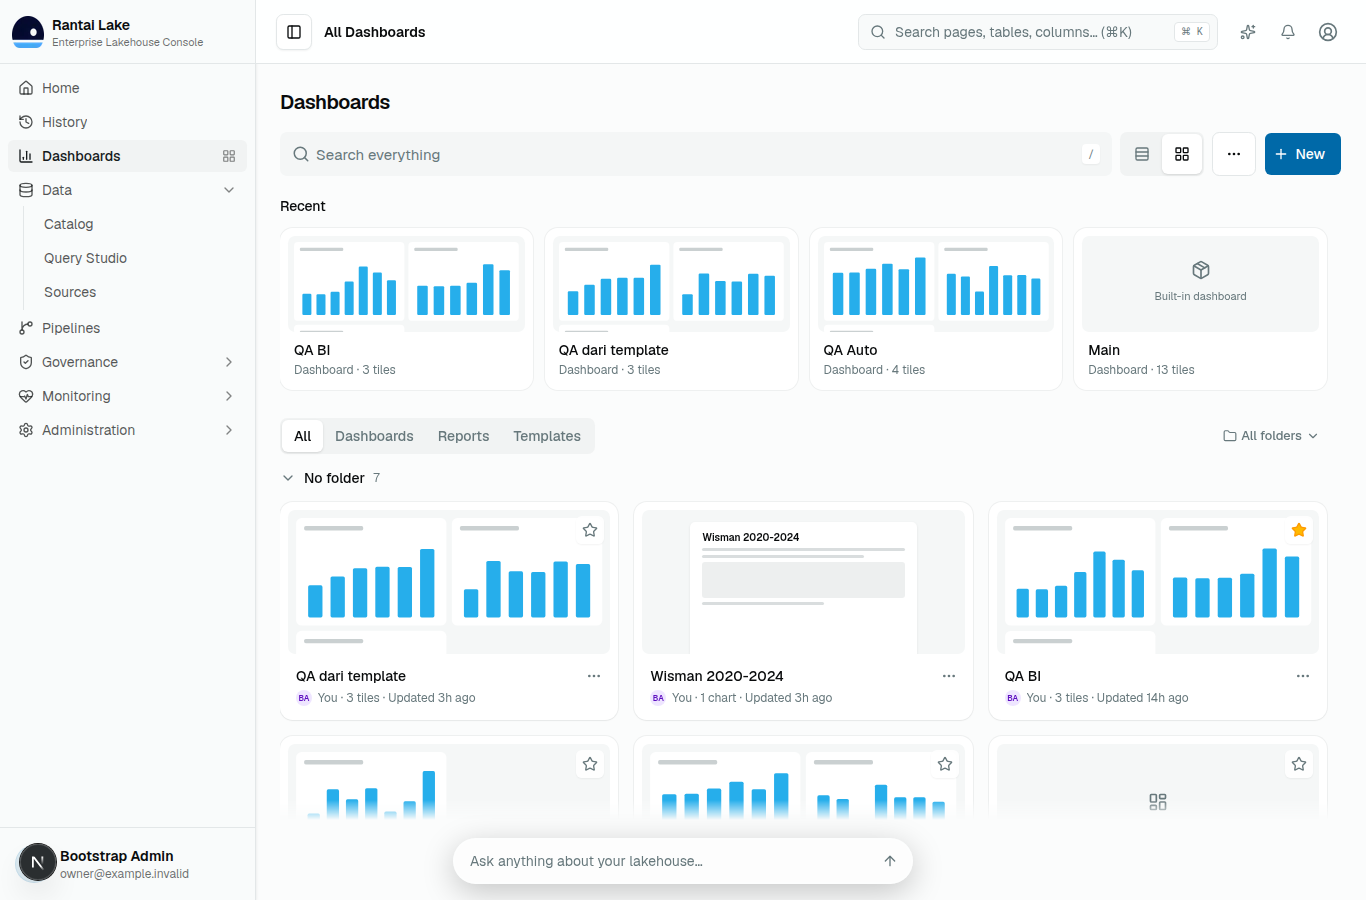
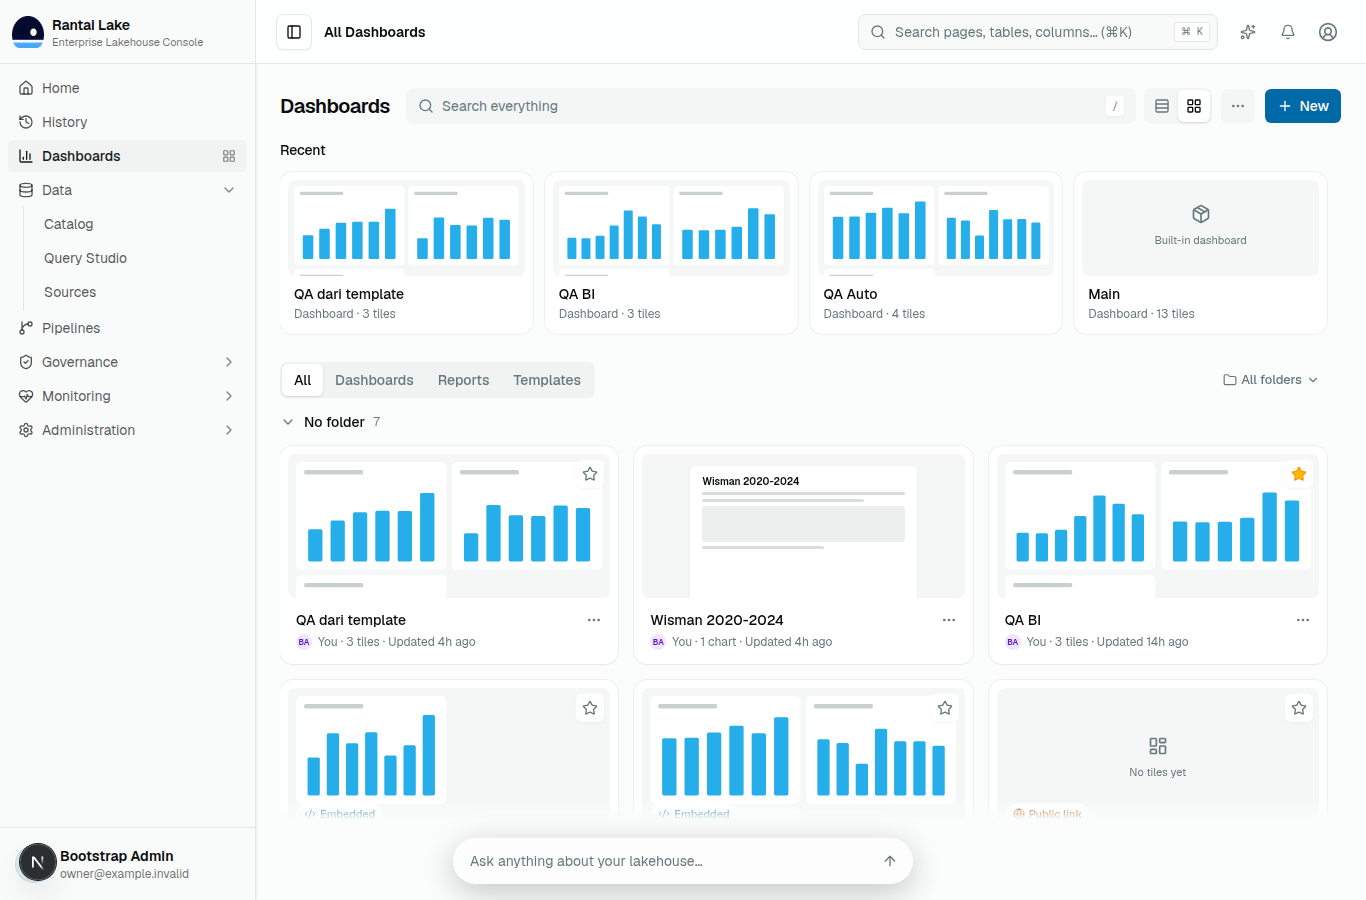
fix(dashboards): BI-59 review round 2: one compact header row, 36 px controls
BI-59 review round 2, SHOULD-FIX 3 (owner QA, "tingginya gede banget";
DESIGN.md §3 "Judul, pencarian, dan aksi halaman satu baris yang
ringkas"): the title, the search (the remaining width), the Table / Gallery
switch, the page ⋯ and + New sit in one row, every control 36 px (the
console's h-9) with the title centred on them; the list starts 16 px below.
The controls are the console's shadcn components sized to our tokens: the
search, the switch and the ⋯ (now the ghost Button at icon-lg) share one
soft fill, rounded-lg, no border; New is the primary Button at lg. On a
phone the title has its own row, then the search, the ⋯ and the icon-only
New.

Measured in Chrome at 1366x900, light and dark, Table and Gallery: the
title, search, switch, ⋯ and New all at top 88 px, 36 px tall; the header
is 36 px (it was 44 + 16 + 28). At 390x844 the row under the title is at
128 px, 36 px tall. The four 1366 screenshots are retaken.

Checks: bun test dashboard-list-page, template-pages, library-item-menu
(37 pass) under the 3 GB cap; eslint on src/features/dashboards; bun run
typecheck.

diff --git a/src/features/dashboards/dashboard-list-page.tsx b/src/features/dashboards/dashboard-list-page.tsx
@@ -105,18 +105,21 @@ function useViewMode(): readonly [ViewMode, (next: ViewMode) => void] {
 }
 
 /** The Table / Gallery switch: two icon buttons with `aria-pressed`, in one soft group like the type filter. */
-function ViewSwitch({ value, onChange, tall }: {
+/**
+ * The Table / Gallery switch: two icon buttons with `aria-pressed` in one soft
+ * group, 36 px tall like the search and the buttons beside it (BI-59 review
+ * round 2, SHOULD-FIX 3): a filled group, no border, the console's `rounded-lg`.
+ */
+function ViewSwitch({ value, onChange }: {
   readonly value: ViewMode
   readonly onChange: (next: ViewMode) => void
-  /** In the search row: as tall as the search (BI-59 review round 1, SHOULD-FIX 1). */
-  readonly tall?: boolean
 }) {
   const options = [
     { value: "table" as const, label: "Table view", icon: Rows3 },
     { value: "gallery" as const, label: "Gallery view", icon: LayoutGrid },
   ]
   return (
-    <div role="group" aria-label="View" className={cn("inline-flex shrink-0 rounded-lg bg-muted p-0.5", tall && "h-11")}>
+    <div role="group" aria-label="View" className="inline-flex h-9 shrink-0 rounded-lg bg-muted/70 p-0.5 dark:bg-input/30">
       {options.map((o) => {
         const on = o.value === value
         return (
@@ -128,8 +131,7 @@ function ViewSwitch({ value, onChange, tall }: {
             title={o.label}
             onClick={() => onChange(o.value)}
             className={cn(
-              "grid place-items-center rounded-md",
-              tall ? "size-10" : "size-8",
+              "grid size-8 place-items-center rounded-md",
               EASE, FOCUS,
               on ? "bg-background text-foreground shadow-sm dark:bg-input/40" : "text-muted-foreground hover:text-foreground",
             )}
@@ -459,37 +461,36 @@ export function DashboardListPage() {
   return (
     <PageFrame>
       {/*
-        BI-59 review round 1, SHOULD-FIX 1 (owner QA; DESIGN.md §3 "Pencarian dan aksi halaman
-        satu baris"): the title alone, then one row with the search taking the width on the left
-        and the page's actions on the right, all 44 px tall and centred. From sm the Table /
-        Gallery switch joins them; on a phone it stays in the filters row so the search keeps
-        its room, and New is the plus alone.
+        BI-59 review round 2, SHOULD-FIX 3 (owner QA, "tingginya gede banget"; DESIGN.md §3 "Judul,
+        pencarian, dan aksi halaman satu baris yang ringkas"): one compact row, every control 36 px
+        (the console's h-9) with the title centred on them: the title, the search taking the
+        remaining width, the Table / Gallery switch, the page ⋯ and New. On a phone the title has
+        its own row, then the search, the ⋯ and an icon-only New; the switch stays in the filters
+        row there so the search keeps its room.
       */}
-      <header className="grid shrink-0 gap-4">
-        <h1 className="text-xl font-semibold tracking-tight">Dashboards</h1>
-        <div className="flex items-center gap-2">
-          <SearchField value={query} onChange={setQuery} className="min-w-0 flex-1" />
-          {phone ? null : <ViewSwitch value={view} onChange={setView} tall />}
-          <PageMenu
-            onFolders={canFile ? () => setFoldersOpen(true) : undefined}
-            onTrash={canFile ? () => setTrashOpen(true) : undefined}
+      <header className={cn("flex shrink-0 items-center gap-2", phone && "flex-wrap gap-y-3")}>
+        <h1 className={cn("mr-2 shrink-0 text-xl leading-9 font-semibold tracking-tight", phone && "w-full")}>Dashboards</h1>
+        <SearchField value={query} onChange={setQuery} className="min-w-0 flex-1" />
+        {phone ? null : <ViewSwitch value={view} onChange={setView} />}
+        <PageMenu
+          onFolders={canFile ? () => setFoldersOpen(true) : undefined}
+          onTrash={canFile ? () => setTrashOpen(true) : undefined}
+        />
+        {/* BI-18 part C review fix (SHOULD-FIX) R27: without `dashboard:write` there is no New. */}
+        {canFile ? (
+          <NewMenu
+            templates={templates}
+            renderPicture={(t) => (
+              <ItemPicture item={templateItem(t)} charts={null} size="sm" className="h-10 w-16 shrink-0" />
+            )}
+            onDashboard={() => setCreateOpen(true)}
+            onTemplate={setUsing}
+            onImport={() => setImportOpen(true)}
           />
-          {/* BI-18 part C review fix (SHOULD-FIX) R27: without `dashboard:write` there is no New. */}
-          {canFile ? (
-            <NewMenu
-              templates={templates}
-              renderPicture={(t) => (
-                <ItemPicture item={templateItem(t)} charts={null} size="sm" className="h-10 w-16 shrink-0" />
-              )}
-              onDashboard={() => setCreateOpen(true)}
-              onTemplate={setUsing}
-              onImport={() => setImportOpen(true)}
-            />
-          ) : null}
-        </div>
+        ) : null}
       </header>
 
-      <ScrollRegion className="-mx-2 mt-5 px-2 pb-6">
+      <ScrollRegion className="-mx-2 mt-4 px-2 pb-6">
         <div className="grid grid-cols-[minmax(0,1fr)] gap-7">
           {!query.trim() && state.status === "success" && !loading ? (
             <RecentRow recent={recent} boards={boardsById} source={pictures} />

diff --git a/src/features/dashboards/dashboard-list-page.test.tsx b/src/features/dashboards/dashboard-list-page.test.tsx
@@ -484,20 +484,30 @@ describe("at phone width (BI-59 T6)", () => {
   })
 })
 
-describe("the search row (BI-59 review round 1, SHOULD-FIX 1)", () => {
-  it("puts the search, the view switch, the ⋯ and New on one row under the title at 1366", async () => {
+describe("the header row (BI-59 review rounds 1 and 2, SHOULD-FIX 1 and 3)", () => {
+  it("holds the title, the search, the view switch, the ⋯ and New in one row element at 1366", async () => {
     serve(["dashboard:read", "dashboard:write"])
     renderPage()
     const head = await header()
-    const search = within(head).getByRole("searchbox")
-    const row = search.closest("header > div")
-    if (!row) throw new Error("no row")
-    for (const name of ["New", "More actions", "Gallery view"]) {
-      await waitFor(() => expect(row.contains(within(head).getByRole("button", { name }))).toBe(true))
-    }
-    // The title is above, alone.
     const title = within(head).getByRole("heading", { name: "Dashboards" })
-    expect(row.contains(title)).toBe(false)
-    expect(title.parentElement).toBe(head)
+    const search = within(head).getByRole("searchbox")
+    await waitFor(() => expect(within(head).getByRole("button", { name: "New" })).toBeTruthy())
+    // One flex row: each control's own box is a direct child of the header.
+    const box = (el: Element) => {
+      let at: Element | null = el
+      while (at && at.parentElement !== head) at = at.parentElement
+      return at
+    }
+    const parts = [
+      title,
+      search,
+      within(head).getByRole("group", { name: "View" }),
+      within(head).getByRole("button", { name: "More actions" }),
+      within(head).getByRole("button", { name: "New" }),
+    ].map(box)
+    expect(parts.every(Boolean)).toBe(true)
+    expect(new Set(parts).size).toBe(5)
+    expect(head.className).toContain("flex")
+    expect(head.className).not.toContain("flex-wrap")
   })
 })

diff --git a/src/features/dashboards/library-menus.tsx b/src/features/dashboards/library-menus.tsx
@@ -51,9 +51,9 @@ export function NewMenu({
 }) {
   return (
     <DropdownMenu>
-      {/* BI-59 review round 1, SHOULD-FIX 1: as tall as the search beside it (h-11); on a phone the
-          word is for screen readers only and the button is the plus alone, so the row still fits. */}
-      <DropdownMenuTrigger render={<Button className="h-11 text-white max-sm:w-11 max-sm:px-0 sm:px-4" />}>
+      {/* BI-59 review round 2, SHOULD-FIX 3: 36 px like the search beside it (the console's h-9); on
+          a phone the word is for screen readers only and the button is the plus alone. */}
+      <DropdownMenuTrigger render={<Button size="lg" className="text-white max-sm:w-9 max-sm:px-0! sm:px-3" />}>
         <Plus data-icon="inline-start" className="max-sm:mx-auto" /> <span className="max-sm:sr-only">New</span>
       </DropdownMenuTrigger>
       <DropdownMenuContent align="end" className="w-72">
@@ -125,8 +125,18 @@ export function PageMenu({
 }) {
   return (
     <DropdownMenu>
-      {/* BI-59 review round 1, SHOULD-FIX 1: the height of the search beside it. */}
-      <DropdownMenuTrigger render={<Button variant="outline" size="icon" aria-label="More actions" className="size-11" />}>
+      {/* BI-59 review round 2, SHOULD-FIX 3: 36 px and filled like the search and the view switch
+          beside it, no border, so the row reads as one set rather than a default outline button. */}
+      <DropdownMenuTrigger
+        render={
+          <Button
+            variant="ghost"
+            size="icon-lg"
+            aria-label="More actions"
+            className="bg-muted/70 text-muted-foreground hover:bg-muted hover:text-foreground aria-expanded:bg-muted dark:bg-input/30 dark:hover:bg-input/50"
+          />
+        }
+      >
         <MoreHorizontal />
       </DropdownMenuTrigger>
       <DropdownMenuContent align="end" className="w-56">

diff --git a/src/features/dashboards/library-parts.tsx b/src/features/dashboards/library-parts.tsx
@@ -115,7 +115,7 @@ export function SearchField({
   }, [])
   return (
     <div className={cn("relative", className)}>
-      <Search aria-hidden className="pointer-events-none absolute top-1/2 left-3 size-4.5 -translate-y-1/2 text-muted-foreground" />
+      <Search aria-hidden className="pointer-events-none absolute top-1/2 left-3 size-4 -translate-y-1/2 text-muted-foreground" />
       <input
         ref={ref}
         type="search"
@@ -130,7 +130,7 @@ export function SearchField({
         placeholder={placeholder}
         aria-label="Search dashboards, reports and templates"
         className={cn(
-          "h-11 w-full min-w-0 rounded-lg bg-muted/70 pr-16 pl-9 text-[15px] placeholder:text-muted-foreground hover:bg-muted focus:bg-background focus:ring-1 focus:ring-ring/60 dark:bg-input/30 dark:focus:bg-input/40 [&::-webkit-search-cancel-button]:hidden",
+          "h-9 w-full min-w-0 rounded-lg bg-muted/70 pr-12 pl-9 text-sm placeholder:text-muted-foreground hover:bg-muted focus:bg-background focus:ring-1 focus:ring-ring/60 dark:bg-input/30 dark:focus:bg-input/40 [&::-webkit-search-cancel-button]:hidden",
           EASE,
           "outline-none focus-visible:ring-3 focus-visible:ring-ring/40",
         )}
@@ -143,7 +143,7 @@ export function SearchField({
             onChange("")
             ref.current?.focus()
           }}
-          className={cn("absolute top-1/2 right-2 grid size-7 -translate-y-1/2 place-items-center rounded-md text-muted-foreground hover:bg-muted hover:text-foreground", EASE, FOCUS)}
+          className={cn("absolute top-1/2 right-1.5 grid size-6 -translate-y-1/2 place-items-center rounded-md text-muted-foreground hover:bg-muted hover:text-foreground", EASE, FOCUS)}
         >
           <X className="size-3.5" aria-hidden />
         </button>

diff --git a/docs/superpowers/plans/2026-11-14-bi-59-dashboards-page.md b/docs/superpowers/plans/2026-11-14-bi-59-dashboards-page.md
@@ -231,3 +231,34 @@
 
 - No horizontal scroll at any size.
 - The five `state-*.png` shots predate this round and still show the old header.
+
+### Handoff, BI-59 review round 2 (developer, 2026-11-14)
+
+**SHOULD-FIX 3: one compact header row** (owner QA, "tingginya gede banget"; DESIGN.md §3 "Judul, pencarian, dan aksi halaman satu baris yang ringkas").
+
+- **Layout.** One row holds the title, the search (it takes the remaining width), the Table / Gallery switch, ⋯ and + New.
+  - Every control is 36 px tall, the console's `h-9`, and the title is centred on them (`leading-9`).
+  - The list's top margin went from `mt-5` to `mt-4`.
+  - The type filter and the folder picker stay on the list's own row.
+- **Shared look.** The controls are the shadcn components, sized to our tokens, with `rounded-lg` and no border:
+  - the search, the switch and ⋯ share one soft fill (`bg-muted/70`, `dark:bg-input/30`);
+  - ⋯ is the ghost `Button` at `icon-lg` with that fill, not the default outline button;
+  - New is the primary `Button` at `lg` (h-9).
+- **Phone.** The title has its own row. Under it: the search, ⋯ and an icon-only New. The view switch stays in the filters row.
+- **Measured in Chrome over CDP:**
+
+  | Viewport | Title | Search | Switch | ⋯ | New | Header height | Recent / list starts |
+  | --- | --- | --- | --- | --- | --- | --- | --- |
+  | 1366x900, all four Table/Gallery and light/dark shots | 88 / 36 | 88 / 36 | 88 / 36 | 88 / 36 | 88 / 36 | 36 (was 44 + 16 + 28) | 140 |
+  | 390x844 | 80 / 36 | 128 / 36 | in the filters row | 128 / 36 | 128 / 36 | n/a | n/a |
+
+  Each cell is top / height in px. No horizontal scroll at either size.
+- **Test.** The header is one flex row (no wrap at desktop width). The title, the search, the switch, ⋯ and New are five separate direct children of it.
+- **Checks** (each under `systemd-run --user --scope -p MemoryMax=3G -p MemorySwapMax=0 nice -n 15`, one at a time):
+  - `bun test` on three files (`dashboard-list-page.test.tsx`, `template-pages.test.tsx`, `library-item-menu.test.tsx`): 37 pass, 0 fail;
+  - eslint on `src/features/dashboards/`: clean;
+  - `bun run typecheck`: clean.
+  - **Not verified:** the full `bun run lint` and `bun run test`, left to CI.
+- **Screenshots.** Retaken at 1366: `{table,gallery}-{light,dark}-1366x900.png`.
+  - The 1190 and 390 shots, and the `state-*` shots, show the earlier headers.
+  - A brief dev server on 28622 and one headless Chrome were stopped by PID afterwards. 28620 was not touched.
